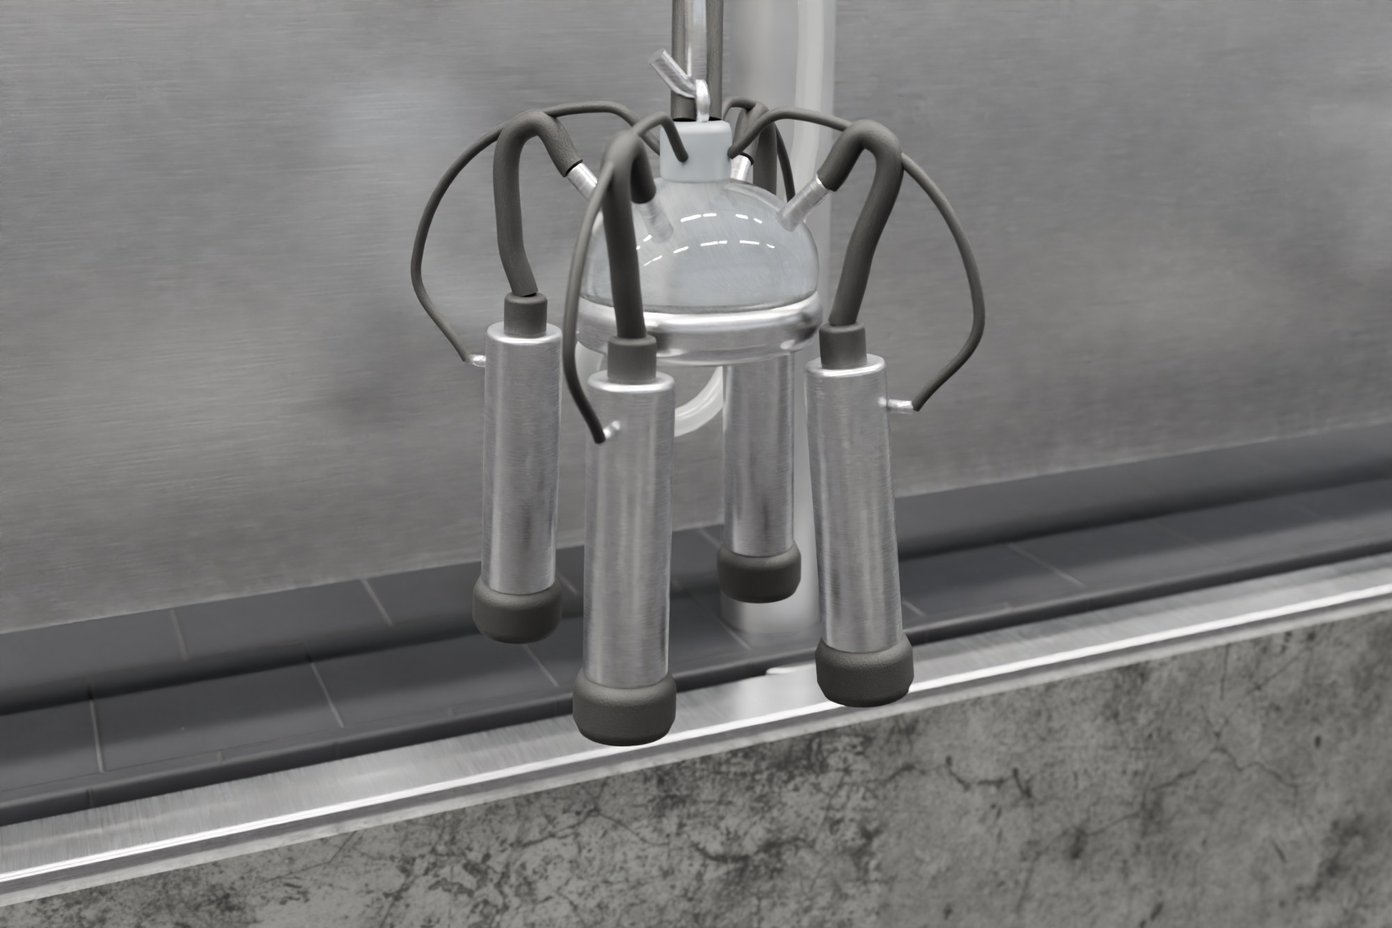
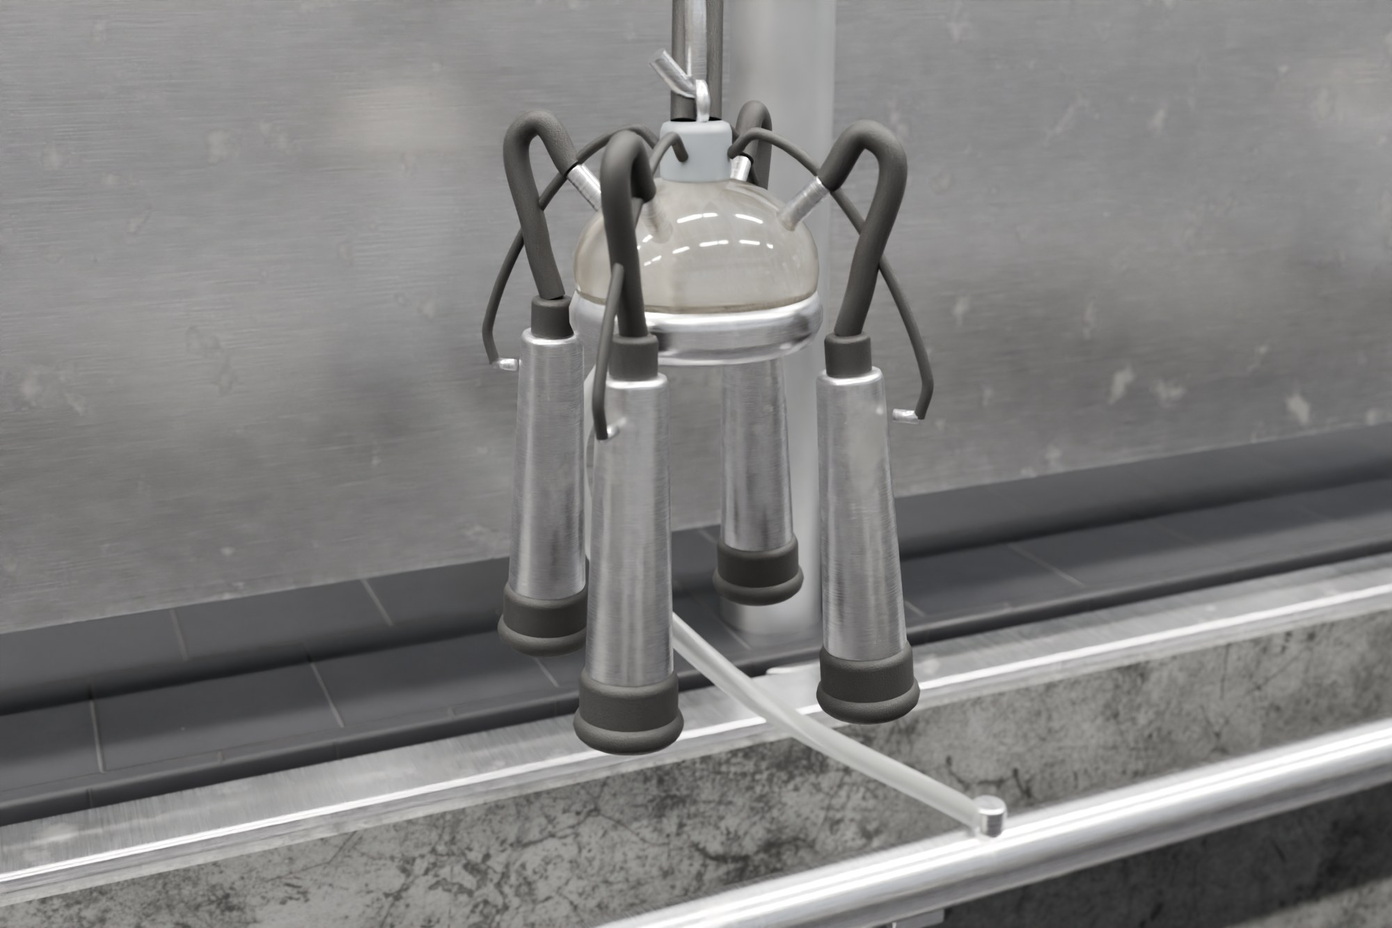
props/dairy r3: low-line milk system (pit-side line, low receiver + sanitary trap, vacuum plumbing closed), tapered cups with rolled lips + polysulfone claw, jetters under hooks, limescale/handling marks, matte tank + real control panel, heavier mud, drain grates, tape sag/twist

diff --git a/blender/props/dairy_parlour/build.py b/blender/props/dairy_parlour/build.py
@@ -127,20 +127,20 @@ def pbr(name, aid, tile, tint=None, rough_mul=1.0, wet=0.0, nstr=1.0, metal=0.0,
         # 墙根泥溅：世界 z 0–0.6 m 渐变 × 噪声，压暗偏棕、变粗糙
         gp = nt.nodes.new('ShaderNodeNewGeometry'); sz = nt.nodes.new('ShaderNodeSeparateXYZ')
         nt.links.new(gp.outputs['Position'], sz.inputs[0])
-        mr = nt.nodes.new('ShaderNodeMapRange'); mr.inputs['From Min'].default_value = 0.05; mr.inputs['From Max'].default_value = 0.65
+        mr = nt.nodes.new('ShaderNodeMapRange'); mr.inputs['From Min'].default_value = 0.0; mr.inputs['From Max'].default_value = 0.9
         mr.inputs['To Min'].default_value = 1.0; mr.inputs['To Max'].default_value = 0.0
         nt.links.new(sz.outputs[2], mr.inputs['Value'])
         gn = nt.nodes.new('ShaderNodeTexNoise'); gn.inputs['Scale'].default_value = 7; gn.inputs['Detail'].default_value = 12
         nt.links.new(gp.outputs['Position'], gn.inputs['Vector'])
         gm_ = nt.nodes.new('ShaderNodeMath'); gm_.operation = 'MULTIPLY'
         nt.links.new(mr.outputs[0], gm_.inputs[0])
-        g2 = nt.nodes.new('ShaderNodeMath'); g2.operation = 'MULTIPLY_ADD'; g2.inputs[1].default_value = 1.6; g2.inputs[2].default_value = -0.2
+        g2 = nt.nodes.new('ShaderNodeMath'); g2.operation = 'MULTIPLY_ADD'; g2.inputs[1].default_value = 2.4; g2.inputs[2].default_value = -0.35
         nt.links.new(gn.outputs[0], g2.inputs[0]); nt.links.new(g2.outputs[0], gm_.inputs[1])
         cl = nt.nodes.new('ShaderNodeMath'); cl.operation = 'MINIMUM'; cl.inputs[1].default_value = 1.0
         nt.links.new(gm_.outputs[0], cl.inputs[0])
         gmix = nt.nodes.new('ShaderNodeMix'); gmix.data_type = 'RGBA'
         nt.links.new(cl.outputs[0], gmix.inputs['Factor']); nt.links.new(col, gmix.inputs[6])
-        gmix.inputs[7].default_value = (0.16, 0.12, 0.08, 1)
+        gmix.inputs[7].default_value = (0.1, 0.075, 0.05, 1)
         col = gmix.outputs[2]
     nt.links.new(col, b.inputs['Base Color'])
     nt.links.new(rough, b.inputs['Roughness'])
@@ -165,6 +165,20 @@ def steel(name, base_rough=0.22, brushed=True, tile=0.6, color=(0.78, 0.78, 0.8)
     b.inputs['Metallic'].default_value = 1.0
     if brushed:
         b.inputs['Anisotropic'].default_value = 0.6
+    # 水垢 / 手摸痕：噪声斑块把粗糙度抬高、颜色压灰
+    tc = nt.nodes.new('ShaderNodeTexCoord')
+    nz = nt.nodes.new('ShaderNodeTexNoise'); nz.inputs['Scale'].default_value = 22; nz.inputs['Detail'].default_value = 6
+    nt.links.new(tc.outputs['Object'], nz.inputs['Vector'])
+    rp = nt.nodes.new('ShaderNodeValToRGB')
+    rp.color_ramp.elements[0].position = 0.6; rp.color_ramp.elements[1].position = 0.75
+    nt.links.new(nz.outputs[0], rp.inputs[0])
+    mxr = nt.nodes.new('ShaderNodeMix'); mxr.data_type = 'FLOAT'
+    nt.links.new(rp.outputs[0], mxr.inputs['Factor']); nt.links.new(mr.outputs[0], mxr.inputs[2]); mxr.inputs[3].default_value = 0.42
+    nt.links.new(mxr.outputs[0], b.inputs['Roughness'])
+    mxc = nt.nodes.new('ShaderNodeMix'); mxc.data_type = 'RGBA'
+    nt.links.new(rp.outputs[0], mxc.inputs['Factor'])
+    mxc.inputs[6].default_value = (*color, 1); mxc.inputs[7].default_value = (0.7, 0.69, 0.66, 1)
+    nt.links.new(mxc.outputs[2], b.inputs['Base Color'])
     return m
 
 
@@ -267,7 +281,11 @@ M['wood'] = pbr('post_wood', 'rough_wood', 0.8, tint=(0.8, 0.72, 0.62))
 M['grass_ground'] = pbr('grass_ground', 'grass_ground', 2.0)
 M['steel'] = steel('steel_brushed')
 M['steel_polish'] = steel('steel_polished', base_rough=0.24, tile=0.1)
-M['tank'] = steel('tank_brushed', base_rough=0.24, tile=1.0)
+M['tank'] = steel('tank_brushed', base_rough=0.38, tile=1.0, color=(0.7, 0.7, 0.71))
+M['psu'] = clear_hose('polysulfone')
+_b = M['psu'].node_tree.nodes['Principled BSDF']
+_b.inputs['Base Color'].default_value = (0.98, 0.9, 0.74, 1); _b.inputs['Transmission Weight'].default_value = 1.0; _b.inputs['Roughness'].default_value = 0.08; _b.inputs['IOR'].default_value = 1.63
+M['jet_old'] = plastic('jetter_worn', (0.78, 0.76, 0.68), rough=0.5)
 M['galv'] = galvanised()
 M['rubber'] = rubber('rubber_black')
 M['hose'] = clear_hose()
@@ -284,6 +302,11 @@ M['glass'] = clear_hose('receiver_glass')
 M['glass'].node_tree.nodes['Principled BSDF'].inputs['Transmission Weight'].default_value = 1.0
 M['glass'].node_tree.nodes['Principled BSDF'].inputs['Roughness'].default_value = 0.05
 M['display'] = emissive('display', 2.0)
+M['lcd'] = emissive('lcd', 1.2)
+M['lcd'].node_tree.nodes['Principled BSDF'].inputs['Base Color'].default_value = (0.02, 0.03, 0.03, 1)
+M['lcd'].node_tree.nodes['Principled BSDF'].inputs['Emission Color'].default_value = (0.35, 0.6, 0.75, 1)
+M['lcd'].node_tree.nodes['Principled BSDF'].inputs['Transmission Weight'].default_value = 0.0
+M['lcd'].node_tree.nodes['Principled BSDF'].inputs['Roughness'].default_value = 0.08
 M['display'].node_tree.nodes['Principled BSDF'].inputs['Emission Color'].default_value = (0.2, 0.9, 0.4, 1)
 
 # 屋面：压型钢板 + 每 3 m 一条采光板
@@ -490,6 +513,29 @@ for x in [PX0 - 0.2] + [PX0 + 2.2 * k for k in range(1, 5)] + [PX1 + 0.2]:
     pipe(f'gantry_{x:.1f}', [(x, -(PY1 + 0.14), 2.35), (x, PY1 + 0.14, 2.35)], 0.035, M['galv'])
 
 # ---------------------------------------------------------------- 奶管 / 脉动管 / 杯组
+def torus(name, center, axis, R, r, mat, seg=32, rseg=12):
+    bm = bmesh.new()
+    rings = []
+    for i in range(seg):
+        a = 2 * math.pi * i / seg
+        ring = []
+        for j in range(rseg):
+            b_ = 2 * math.pi * j / rseg
+            ring.append(bm.verts.new(((R + r * math.cos(b_)) * math.cos(a), (R + r * math.cos(b_)) * math.sin(a), r * math.sin(b_))))
+        rings.append(ring)
+    for i in range(seg):
+        for j in range(rseg):
+            bm.faces.new((rings[i][j], rings[(i + 1) % seg][j], rings[(i + 1) % seg][(j + 1) % rseg], rings[i][(j + 1) % rseg]))
+    me = bpy.data.meshes.new(name); bm.to_mesh(me); bm.free()
+    for p in me.polygons:
+        p.use_smooth = True
+    me.materials.append(mat)
+    o = link(bpy.data.objects.new(name, me))
+    o.location = tuple(center)
+    o.rotation_mode = 'QUATERNION'; o.rotation_quaternion = Vector(axis).to_track_quat('Z', 'Y')
+    return o
+
+
 def cyl_between(name, p0, p1, r, mat, r2=None, bev=0.002, seg=24):
     p0, p1 = Vector(p0), Vector(p1)
     o = cyl(name, tuple((p0 + p1) / 2), r, (p1 - p0).length, mat, seg=seg, bev=bev, r2=r2)
@@ -498,7 +544,7 @@ def cyl_between(name, p0, p1, r, mat, r2=None, bev=0.002, seg=24):
     return o
 
 
-PULSE_Z = MILK_LINE_Z + 0.25
+PULSE_Z = 1.9          # 脉动 / 真空管仍在架子高处
 GZ = 2.35
 
 
@@ -508,14 +554,14 @@ def cluster(tag, C, face):
     C = Vector(C)
     # 爪：不锈钢底座 + 透明聚砜上罩 + 顶上黑色脉动分配器 + 挂环
     cyl(f'claw_base_{tag}', tuple(C + Vector((0, 0, -0.022))), 0.062, 0.03, M['steel_polish'], seg=48, bev=0.012)
-    sphere(f'claw_bowl_{tag}', tuple(C + Vector((0, 0, 0.0))), 0.06, M['glass'], (1, 1, 0.75))
+    sphere(f'claw_bowl_{tag}', tuple(C + Vector((0, 0, 0.0))), 0.06, M['psu'], (1, 1, 0.75))
     cyl(f'distrib_{tag}', tuple(C + Vector((0, 0, 0.055))), 0.017, 0.03, M['grey_box'], bev=0.005)
     ring = C + Vector((0, 0, 0.078))
     cyl(f'claw_ring_{tag}', tuple(ring), 0.012, 0.004, M['steel'], axis='X', bev=0)
     # 出奶口（侧面，朝钩那边）
     fx, fy = face
-    out0 = C + Vector((fx * 0.055, fy * 0.055, -0.015))
-    out1 = C + Vector((fx * 0.085, fy * 0.085, -0.02))
+    out0 = C + Vector((fx * 0.05, fy * 0.05, -0.028))
+    out1 = out0 + Vector((fx * 0.035, fy * 0.035, -0.02))   # 底座下沿，朝外下倾 30°
     cyl_between(f'claw_outlet_{tag}', out0, out1, 0.009, M['steel'])
     for k in range(4):
         a = math.pi / 4 + k * math.pi / 2
@@ -530,10 +576,11 @@ def cluster(tag, C, face):
         tilt = d * 0.08 + Vector((random.uniform(-0.03, 0.03), random.uniform(-0.03, 0.03), 0))
         axis = (Vector((0, 0, -1)) + tilt).normalized()
         bot = top + axis * 0.145
-        cyl_between(f'shell_{tag}_{k}', top, bot, 0.02, M['steel_polish'], bev=0.004, seg=32)
+        cyl_between(f'shell_{tag}_{k}', top, bot, 0.016, M['steel_polish'], bev=0.004, seg=32, r2=0.021)   # 杯底（倒挂时朝上）细、杯口粗
         # 唇口：软黑橡胶，比壳粗一圈；中间是乳头孔
         lip1 = bot + axis * 0.028
-        cyl_between(f'mouth_{tag}_{k}', bot - axis * 0.004, lip1, 0.0245, M['rubber'], bev=0.009, seg=32)
+        cyl_between(f'mouth_{tag}_{k}', bot - axis * 0.004, lip1, 0.0235, M['rubber'], bev=0.006, seg=32)
+        torus(f'lip_{tag}_{k}', lip1 - axis * 0.004, axis, 0.019, 0.0075, M['rubber'])   # 翻边唇口
         cyl_between(f'mouthhole_{tag}_{k}', lip1 - axis * 0.002, lip1 + axis * 0.0005, 0.009, M['frame'], bev=0, seg=16)
         # 衬垫从杯壳上端伸出变成短奶管，拐弯接到爪上的进奶嘴
         stub = top - axis * 0.018
@@ -543,49 +590,55 @@ def cluster(tag, C, face):
         side = top + axis * 0.02 + d * 0.021
         cyl_between(f'pnip_{tag}_{k}', side, side + d * 0.012, 0.003, M['steel'], bev=0)
         dist = C + Vector((0, 0, 0.055)) + d * 0.017
-        tube(f'shortpulse_{tag}_{k}', [tuple(side + d * 0.012), tuple(side + d * 0.04 + Vector((0, 0, 0.05))), tuple(dist + d * 0.03 + Vector((0, 0, 0.02))), tuple(dist)], 0.0028, M['rubber'], res=16)
+        tube(f'shortpulse_{tag}_{k}', [tuple(side + d * 0.012), tuple(side + d * 0.015 + Vector((0, 0, 0.02))), tuple(dist + d * 0.015 + Vector((0, 0, 0.01))), tuple(dist)], 0.0028, M['rubber'], res=16)
     return out1, C + Vector((0, 0, 0.07))
 
 
 for s in (1, -1):
     ym = s * (PY1 + 0.05)
-    pipe(f'milkline_{s}', [(PX0 - 0.3, ym, MILK_LINE_Z), (PX1 + 0.1, ym, MILK_LINE_Z), (RECEIVER[0], s * 0.22, MILK_LINE_Z - 0.2), (RECEIVER[0], s * 0.22, -0.05)], 0.025, M['steel'], rad=0.25)
-    pipe(f'pulseline_{s}', [(PX0 - 0.3, ym, PULSE_Z), (PX1 + 0.3, ym, PULSE_Z)], 0.019, M['white_pvc'])
+    yml = s * (PY1 - 0.09)   # 低位奶管贴坑壁
+    pipe(f'milkline_{s}', [(PX0 - 0.3, yml, MILK_LINE_Z + 0.04), (PX1 + 0.1, yml, MILK_LINE_Z - 0.05), (RECEIVER[0], s * 0.2, -0.16), (RECEIVER[0], s * 0.2, -0.2)], 0.025, M['steel'], rad=0.2)
     for x in [PX0 + 1.1 * k for k in range(11)]:
-        cyl(f'clamp_{s}_{x:.1f}', (x, ym, (MILK_LINE_Z + GZ) / 2), 0.006, GZ - MILK_LINE_Z, M['steel'])
+        box(f'ml_bracket_{s}_{x:.1f}', x - 0.02, x + 0.02, min(s * PY1, yml), max(s * PY1, yml), MILK_LINE_Z - 0.04, MILK_LINE_Z - 0.025, M['steel'], 0.002)
+    pipe(f'pulseline_{s}', [(PX0 - 0.3, 0, 2.6), (PX0 - 0.3, ym, 2.6), (PX0 - 0.3, ym, PULSE_Z), (PX1 + 0.3, ym, PULSE_Z)], 0.019, M['white_pvc'])
+    for x in [PX0 + 1.1 * k for k in range(11)]:
+        cyl(f'clamp_{s}_{x:.1f}', (x, ym, (PULSE_Z + GZ) / 2), 0.006, GZ - PULSE_Z, M['steel'])
     # 坑壁清洗托（jetter）供水管
     yw = s * (PY1 - 0.05)
-    pipe(f'washline_{s}', [(PX0 - 0.2, yw, -0.42), (PX1 + 0.3, yw, -0.42)], 0.02, M['steel'])
+    pipe(f'washline_{s}', [(PX0 - 0.2, yw, -0.62), (PX1 + 0.3, yw, -0.62)], 0.02, M['steel'])
     for i, x in enumerate(SX):
         cx, cy, cz = x + 0.3, s * (PY1 - 0.17), 0.36
         # 杯组挂钩：从臀栏伸进坑、向下弯出钩，钩住爪顶挂环
         pipe(f'hook_{s}_{i}', [(cx, s * (PY1 + 0.14), 0.62), (cx, s * (PY1 - 0.05), 0.62), (cx, cy, 0.5), (cx, cy, cz + 0.078), (cx + 0.02, cy, cz + 0.1)], 0.005, M['steel'], rad=0.03)
         outlet, ptop = cluster(f'{s}_{i}', (cx, cy, cz), (0, s))
         # 长奶管 Ø16（透明）：侧出口 → 下垂 → 上到奶管上半部的进奶口
-        tube(f'longmilk_{s}_{i}', [tuple(outlet), tuple(outlet + Vector((0.02, s * 0.02, -0.06))), (cx - 0.08, s * (PY1 - 0.02), 0.25), (cx - 0.15, s * (PY1 + 0.04), 0.9), (x + 0.05, ym, MILK_LINE_Z + 0.03)], 0.008, M['hose'])
-        cyl(f'inlet_{s}_{i}', (x + 0.05, ym, MILK_LINE_Z + 0.02), 0.012, 0.05, M['steel'])
+        tube(f'longmilk_{s}_{i}', [tuple(outlet), tuple(outlet + Vector((0.03, s * 0.02, -0.08))), (cx - 0.05, s * (PY1 - 0.06), 0.1), (x + 0.05, yml, MILK_LINE_Z + 0.03)], 0.008, M['hose'])
+        cyl(f'inlet_{s}_{i}', (x + 0.05, yml, MILK_LINE_Z + 0.02), 0.012, 0.05, M['steel'])
         # 双脉动长管（黑，两根并在一起）：分配器 → 脉动器
         for off in (-0.0065, 0.0065):
             tube(f'pulse_{s}_{i}_{off}', [tuple(ptop + Vector((off, 0, 0))), tuple(ptop + Vector((off - 0.02, s * 0.04, 0.12))), (cx - 0.1 + off, s * (PY1 + 0.03), 0.95), (x + 0.2 + off, s * (PY1 + 0.05), PULSE_Z - 0.08)], 0.0062, M['rubber'])
         box(f'pulsator_{s}_{i}', x + 0.14, x + 0.26, s * (PY1 + 0.05) - 0.04, s * (PY1 + 0.05) + 0.04, PULSE_Z - 0.1, PULSE_Z - 0.02, M['grey_box'], 0.008)
         # 清洗托：坑壁上一组四个开口朝上的白色清洗杯
-        box(f'jet_bracket_{s}_{i}', cx - 0.14, cx + 0.14, min(yw, yw - s * 0.05), max(yw, yw - s * 0.05), -0.3, -0.28, M['steel'], 0.003)
-        for k, dx in enumerate((-0.105, -0.035, 0.035, 0.105)):
-            jy = yw - s * 0.06
-            cyl(f'jetter_{s}_{i}_{k}', (cx + dx, jy, -0.25), 0.03, 0.08, M['white_pvc'], bev=0.006, seg=32, r2=0.026)
-            cyl(f'jetter_hole_{s}_{i}_{k}', (cx + dx, jy, -0.2095), 0.021, 0.002, M['frame'], bev=0, seg=24)
-            pipe(f'jet_feed_{s}_{i}_{k}', [(cx + dx, jy, -0.29), (cx + dx, jy, -0.36), (cx + dx, yw, -0.42)], 0.006, M['steel'], rad=0.03)
+        jz = -0.2 + random.uniform(-0.01, 0.01)
+        box(f'jet_bracket_{s}_{i}', cx - 0.1, cx + 0.1, min(s * PY1, s * (PY1 - 0.26)), max(s * PY1, s * (PY1 - 0.26)), jz - 0.07, jz - 0.055, M['steel'], 0.003)
+        for k, (dx, dy) in enumerate(((-0.065, 0.11), (0.065, 0.11), (-0.065, 0.23), (0.065, 0.23))):
+            dx += random.uniform(-0.006, 0.006)
+            jy = s * (PY1 - dy)
+            jo = cyl(f'jetter_{s}_{i}_{k}', (cx + dx, jy, jz), 0.026, 0.08, random.choice((M['white_pvc'], M['jet_old'])), bev=0.006, seg=32, r2=0.03)
+            jo.rotation_euler = (random.uniform(-0.05, 0.05), random.uniform(-0.05, 0.05), 0)
+            cyl(f'jetter_hole_{s}_{i}_{k}', (cx + dx, jy, jz + 0.0405), 0.023, 0.002, M['frame'], bev=0, seg=24)
+            pipe(f'jet_feed_{s}_{i}_{k}', [(cx + dx, jy, jz - 0.04), (cx + dx, jy, jz - 0.12), (cx + dx, yw, -0.62)], 0.006, M['steel'], rad=0.03)
 
 # 集乳罐 + 奶泵
 rx, ry = RECEIVER
-cyl('receiver_glass', (rx, ry, -0.12), 0.17, 0.5, M['glass'], bev=0.01)
-cyl('receiver_top', (rx, ry, 0.15), 0.19, 0.05, M['steel_polish'], bev=0.01)
-cyl('receiver_bot', (rx, ry, -0.4), 0.19, 0.05, M['steel_polish'], bev=0.01)
+cyl('receiver_glass', (rx, ry, -0.45), 0.17, 0.5, M['glass'], bev=0.01)
+cyl('receiver_top', (rx, ry, -0.18), 0.19, 0.05, M['steel_polish'], bev=0.01)
+cyl('receiver_bot', (rx, ry, -0.73), 0.19, 0.05, M['steel_polish'], bev=0.01)
 for k in range(3):
     a = k * 2 * math.pi / 3
-    cyl(f'receiver_leg_{k}', (rx + math.cos(a) * 0.17, ry + math.sin(a) * 0.17, -D / 2 - 0.22), 0.015, D - 0.45, M['steel'])
+    cyl(f'receiver_leg_{k}', (rx + math.cos(a) * 0.17, ry + math.sin(a) * 0.17, -0.84), 0.015, 0.23, M['steel'])
 box('milk_pump', rx - 0.25, rx + 0.1, 0.3, 0.6, -D, -D + 0.3, M['steel'], 0.02)
-pipe('transfer_line', [(rx, ry, 0.18), (rx, ry, 1.1), (MILK_ROOM_X + 0.6, ry, 1.1), (TANK[0], TANK[1] + TANK[2] / 2 - 0.2, 2.25), ], 0.02, M['steel'], rad=0.2)
+pipe('transfer_line', [(rx, ry, -0.15), (rx, ry, 1.1), (MILK_ROOM_X + 0.6, ry, 1.1), (TANK[0], TANK[1] + TANK[2] / 2 - 0.2, 2.25), ], 0.02, M['steel'], rad=0.2)
 pipe('vacuum_line', [(PX0 - 0.3, 0, 2.6), (MILK_ROOM_X, 0, 2.6), (MILK_ROOM_X + 1.5, 0, 2.6), (MILK_ROOM_X + 1.5, 3.8, 2.6), (MILK_ROOM_X + 1.5, 3.8, 1.0)], 0.035, M['white_pvc'])
 
 # ---------------------------------------------------------------- 奶罐间
@@ -605,22 +658,33 @@ cyl('agitator_motor', (tx, ty - 0.6, tz + td / 2 + 0.15), 0.1, 0.28, M['white_pv
 box('agitator_box', tx - 0.12, tx + 0.12, ty - 0.72, ty - 0.48, tz + td / 2 + 0.3, tz + td / 2 + 0.42, M['white_pvc'], 0.01)
 pipe('tank_outlet', [(tx, ty - tl / 2 + 0.3, tleg + 0.1), (tx, ty - tl / 2 - 0.2, tleg + 0.1)], 0.03, M['steel'])
 cyl('tank_valve', (tx, ty - tl / 2 - 0.22, tleg + 0.1), 0.05, 0.1, M['steel'], axis='Y')
-box('tank_panel', tx - 0.25, tx + 0.25, ty + tl / 2 - 0.05, ty + tl / 2 + 0.08, tz - 0.25, tz + 0.2, M['white_pvc'], 0.01)
-box('tank_display', tx - 0.12, tx + 0.02, ty + tl / 2 + 0.08, ty + tl / 2 + 0.085, tz, tz + 0.08, M['display'], 0)
+# 控制箱：支架立在罐端外 0.25 m，灰色机箱 + 深色边框 + 显示屏 + 按键
+py0 = ty + tl / 2 + 0.3
+for u in (-0.15, 0.15):
+    cyl(f'panel_stand_{u}', (tx + u, py0 + 0.06, (tz - 0.25) / 2), 0.015, tz - 0.25, M['steel'])
+box('tank_panel', tx - 0.2, tx + 0.2, py0, py0 + 0.12, tz - 0.25, tz + 0.2, M['white_pvc'], 0.012)
+box('tank_bezel', tx - 0.15, tx + 0.15, py0 + 0.12, py0 + 0.13, tz - 0.02, tz + 0.15, M['grey_box'], 0.004)
+box('tank_display', tx - 0.11, tx + 0.03, py0 + 0.13, py0 + 0.132, tz + 0.04, tz + 0.12, M['lcd'], 0)
+for k_ in range(4):
+    cyl(f'tank_btn_{k_}', (tx + 0.07 + (k_ % 2) * 0.04, py0 + 0.135, tz + 0.05 + (k_ // 2) * 0.05), 0.012, 0.01, M['red'] if k_ == 0 else M['grey_box'], axis='Y', bev=0.003)
+cyl('tank_estop', (tx - 0.1, py0 + 0.13, tz - 0.12), 0.025, 0.02, M['red'], axis='Y', bev=0.006)
+tube('panel_cable', [(tx, py0, tz - 0.2), (tx, py0 - 0.15, tz - 0.3), (tx, ty + tl / 2 - 0.1, tz - 0.1)], 0.006, M['rubber'])
 # 制冷机组
 box('condenser', X1 - 0.75, X1 - 0.12, -5.2, -3.9, 0, 0.8, M['frame'], 0.02)
 cyl('condenser_fan', (X1 - 0.75, -4.55, 0.42), 0.26, 0.02, M['galv'], axis='X')
 for k in range(5):
     cyl(f'grille_{k}', (X1 - 0.765, -4.55, 0.42), 0.05 + k * 0.05, 0.004, M['steel'], axis='X', seg=48, bev=0)
 # 卫生阱（奶和真空之间的不锈钢小罐）+ 真空稳压罐 + 真空泵机组
-stx, sty = MILK_ROOM_X + 0.7, 3.2
-cyl('san_trap', (stx, sty, 1.2), 0.13, 0.36, M['steel_polish'], seg=48, bev=0.02)
-cyl('san_trap_lid', (stx, sty, 1.395), 0.14, 0.03, M['steel'], seg=48, bev=0.008)
-cyl('san_trap_valve', (stx, sty, 0.95), 0.03, 0.14, M['steel'])
+stx, sty = RECEIVER[0] - 0.05, 0.62
+TZ = -0.45
+cyl('san_trap', (stx, sty, TZ), 0.13, 0.36, M['steel_polish'], seg=48, bev=0.02)
+cyl('san_trap_lid', (stx, sty, TZ + 0.195), 0.14, 0.03, M['steel'], seg=48, bev=0.008)
+cyl('san_trap_valve', (stx, sty, TZ - 0.25), 0.03, 0.14, M['steel'])
 for k in range(3):
     a = k * 2 * math.pi / 3
-    cyl(f'san_leg_{k}', (stx + math.cos(a) * 0.12, sty + math.sin(a) * 0.12, 0.5), 0.012, 1.0, M['steel'])
-pipe('san_to_vac', [(stx, sty, 1.41), (stx, sty, 2.6), (MILK_ROOM_X + 1.5, sty, 2.6)], 0.03, M['white_pvc'])
+    cyl(f'san_leg_{k}', (stx + math.cos(a) * 0.12, sty + math.sin(a) * 0.12, (-D + TZ - 0.18) / 2), 0.012, TZ - 0.18 + D, M['steel'])
+pipe('san_to_vac', [(stx, sty, TZ + 0.21), (stx, sty, 2.6), (stx, 0, 2.6)], 0.03, M['white_pvc'])
+pipe('rec_to_trap', [(rx + 0.12, ry + 0.1, -0.17), (rx + 0.12, ry + 0.1, -0.05), (stx, sty - 0.1, -0.05), (stx, sty, TZ + 0.2)], 0.025, M['steel'], rad=0.06)
 vrx, vry = MILK_ROOM_X + 1.5, 4.6
 cyl('vac_receiver', (vrx, vry, 0.85), 0.2, 0.8, M['steel'], seg=48, bev=0.03)
 sphere('vac_receiver_top', (vrx, vry, 1.25), 0.2, M['steel'], (1, 1, 0.35))
@@ -680,7 +744,12 @@ for s_ in (1, -1):
     cyl(f'gutter_{s_}', ((X0 + X1) / 2, gy, EAVE - 0.08), 0.07, X1 - X0 + 0.8, M['galv'], axis='X', seg=24, bev=0.004)
     for gx in (X0 + 0.4, (X0 + X1) / 2, X1 - 0.4):
         wy = s_ * (Y1 + WT + 0.07)
-        pipe(f'downpipe_{s_}_{gx:.1f}', [(gx, gy, EAVE - 0.12), (gx, gy, EAVE - 0.35), (gx, wy, EAVE - 0.6), (gx, wy, 0.2), (gx, s_ * (Y1 + WT + 0.25), 0.03)], 0.045, M['galv'], rad=0.12)
+        pipe(f'downpipe_{s_}_{gx:.1f}', [(gx, gy, EAVE - 0.12), (gx, gy, EAVE - 0.35), (gx, wy, EAVE - 0.6), (gx, wy, 0.2), (gx, s_ * (Y1 + WT + 0.25), 0.06)], 0.045, M['galv'], rad=0.12)
+        gyd = s_ * (Y1 + WT + 0.38)
+        box(f'drain_pit_{s_}_{gx:.1f}', gx - 0.17, gx + 0.17, gyd - 0.17, gyd + 0.17, -0.1, -0.004, M['frame'], 0.005)
+        for kb in range(9):
+            bx_ = gx - 0.14 + kb * 0.035
+            box(f'drain_bar_{s_}_{gx:.1f}_{kb}', bx_, bx_ + 0.012, gyd - 0.15, gyd + 0.15, -0.012, 0.004, M['galv'], 0)
         for bz in (1.0, 2.2, 3.4):
             box(f'dp_clip_{s_}_{gx:.1f}_{bz}', gx - 0.06, gx + 0.06, min(wy, s_ * (Y1 + WT)), max(wy, s_ * (Y1 + WT)), bz, bz + 0.03, M['galv'], 0.002)
 # 钢门架（I 型钢简化：翼缘 + 腹板）
@@ -857,7 +926,7 @@ for si, (a, b) in enumerate(sides):
             L = math.hypot(p1[0] - p0[0], p1[1] - p0[1])
             for k in range(8):
                 f = k / 8
-                sag = 4 * f * (1 - f) * (0.03 if kind == 'tape' else 0.035) * L / POST_STEP
+                sag = 4 * f * (1 - f) * (0.045 if kind == 'tape' else 0.035) * L / POST_STEP
                 seg.append((p0[0] + (p1[0] - p0[0]) * f, p0[1] + (p1[1] - p0[1]) * f, z + 0.02 - sag))
         seg.append((pts[-1][0], pts[-1][1], z + 0.02))
         # 带/线挂在绝缘子外侧（朝场内偏 6 cm）
@@ -870,7 +939,9 @@ for si, (a, b) in enumerate(sides):
             else:
                 seg2.append((x + math.copysign(0.07, dx), y, zz))
         if kind == 'tape':
-            tube(f'tape_{si}', seg2, 0, M['tape'], smooth=False, ribbon=0.02)
+            to = tube(f'tape_{si}', seg2, 0, M['tape'], smooth=False, ribbon=0.02)
+            for k_, pt in enumerate(to.data.splines[0].points):
+                pt.tilt = 0.35 * math.sin(k_ * 0.9 + si)
         else:
             tube(f'wire_{si}', seg2, 0.0022, M['wire'], smooth=False)
 for (x, y) in postset.values():

diff --git a/blender/props/dairy_parlour/layout.py b/blender/props/dairy_parlour/layout.py
@@ -19,7 +19,7 @@ STALL_PITCH = 1.1
 STALL_ANGLE = 35.0                   # 度
 STALL_X0 = -5.0                      # 第一个牛位中心 x
 
-MILK_LINE_Z = 1.65                   # 高位奶管，牛站台面以上（高位 1.5–1.8 m、中位 1.2–1.5 m、低位台面下 0.3 m；ScienceDirect Topics《Milking System》）
+MILK_LINE_Z = -0.08                  # 低位奶管：沿坑壁、比牛站台面低 8 cm（坑底以上约 0.87 m），现代鱼骨厅标准做法（用户 2026-09-27 否决高位）
 RECEIVER = (5.4, 0.0)                # 集乳罐 x, y（坑尾）
 
 MILK_ROOM_X = 6.0                    # 隔墙 x，右侧是奶罐间

diff --git a/docs/reviews/props_dairy/r1.md b/docs/reviews/props_dairy/r1.md
@@ -22,3 +22,14 @@
 - 坑壁清洗托（每位 4 个）加供水管；外墙根加泥溅，加檐沟和落水管；围栏改为 10 m 桩距，转角和闸门加撑桩与斜撑；奶罐间加卫生阱、真空稳压罐和真空泵机组。
 - 奶管高度改为站台面以上 1.65 m（高位系统通常 1.5–1.8 m，来源：ScienceDirect Topics《Milking System》）。
 - r2 审阅（美术总监 + 挤奶设备技师）已经发出，交回时结果还没出来。
+
+## r2 审阅结果
+- 美术总监 6.5/10：P0 杯组仍像手电筒（杯壳等径、唇口是圆帽），集乳器碗像塑料；P1 清洗托太整齐、泥溅偏少、落水管无排水口、带子太直、奶罐像气罐、控制面板像白块；P2 不锈钢太干净。
+- 现编：挤奶设备安装与维修技师，7/10：杯组朝向和挂姿正确；P0 卫生阱与集乳罐之间没有连线；P1 奶管完全水平；P2 出奶口位置、清洗托离杯组太远、短脉动管外扩太大。
+
+## r3 修改（用户授权第 3 轮）
+- 改为**低位奶管**（用户否决高位）：奶管沿坑壁，比站台面低 8 cm（坑底以上约 0.87 m），向集乳罐方向有 9 cm 坡度，用支架固定在坑壁上。集乳罐和卫生阱都放在坑尾低处，集乳罐 → 卫生阱 → 真空主管 → 稳压罐 → 真空泵依次接通；脉动管仍在架子高处，已接到真空主管。
+- 杯组：杯壳改成锥形（杯口粗）并加翻边橡胶唇口；集乳器碗改为淡琥珀色聚砜（透光、粗糙度 0.08）；出奶口移到底座下沿、朝外下倾；短脉动管贴着走。
+- 清洗托改到挂钩正下方，按 2×2 方阵排，位置和旋转带随机扰动，一半用旧化材质。
+- 所有不锈钢加水垢和手摸痕；奶罐改为哑光拉丝，控制箱改为立在支架上，有边框、液晶屏、按键和急停按钮。
+- 墙根泥溅加重；落水管底部加弯头出水，下面加排水篦；围栏带子加大下垂并加扭转。

diff --git a/docs/model-sources.md b/docs/model-sources.md
@@ -40,6 +40,8 @@
 - 用 zsh 时 `cat > file <<EOF` 会写出空文件（环境里 cat/ls 被别名到 bat/eza），写文件改用 Write 或 /bin/cat。
 - Blender 5.2 里 Distribute Points on Faces 没有 “Density Factor” 输入，改用 Selection。Random Value 节点要按 socket 类型（VALUE/INT/VECTOR）找输入，不能按下标找。
 - 贴图自带的颜色会带偏：box_profile_metal_sheet 是红色，rubber_tiles 近乎全黑。先看一眼贴图，再决定要不要去饱和或乘色。
+- 奶管高度先问清系统类型：用户认为高位（1.65–1.95 m）明显不对，现代鱼骨厅按低位做（沿坑壁、比站台面略低）。
+- 杯组静止挂钩姿态：爪在上，杯倒挂、唇口朝下，短奶管从杯底（朝上）接到爪的进奶嘴。第一版把结构做反了，被用户指出。
 - 大地面网格会穿进坑里、盖住楼板，要把室内范围的顶点压到楼板下面。
 - 湿地面：遮罩覆盖太大会变成镜面地板。积水面积控制在 15–25%，过渡要宽。
 
